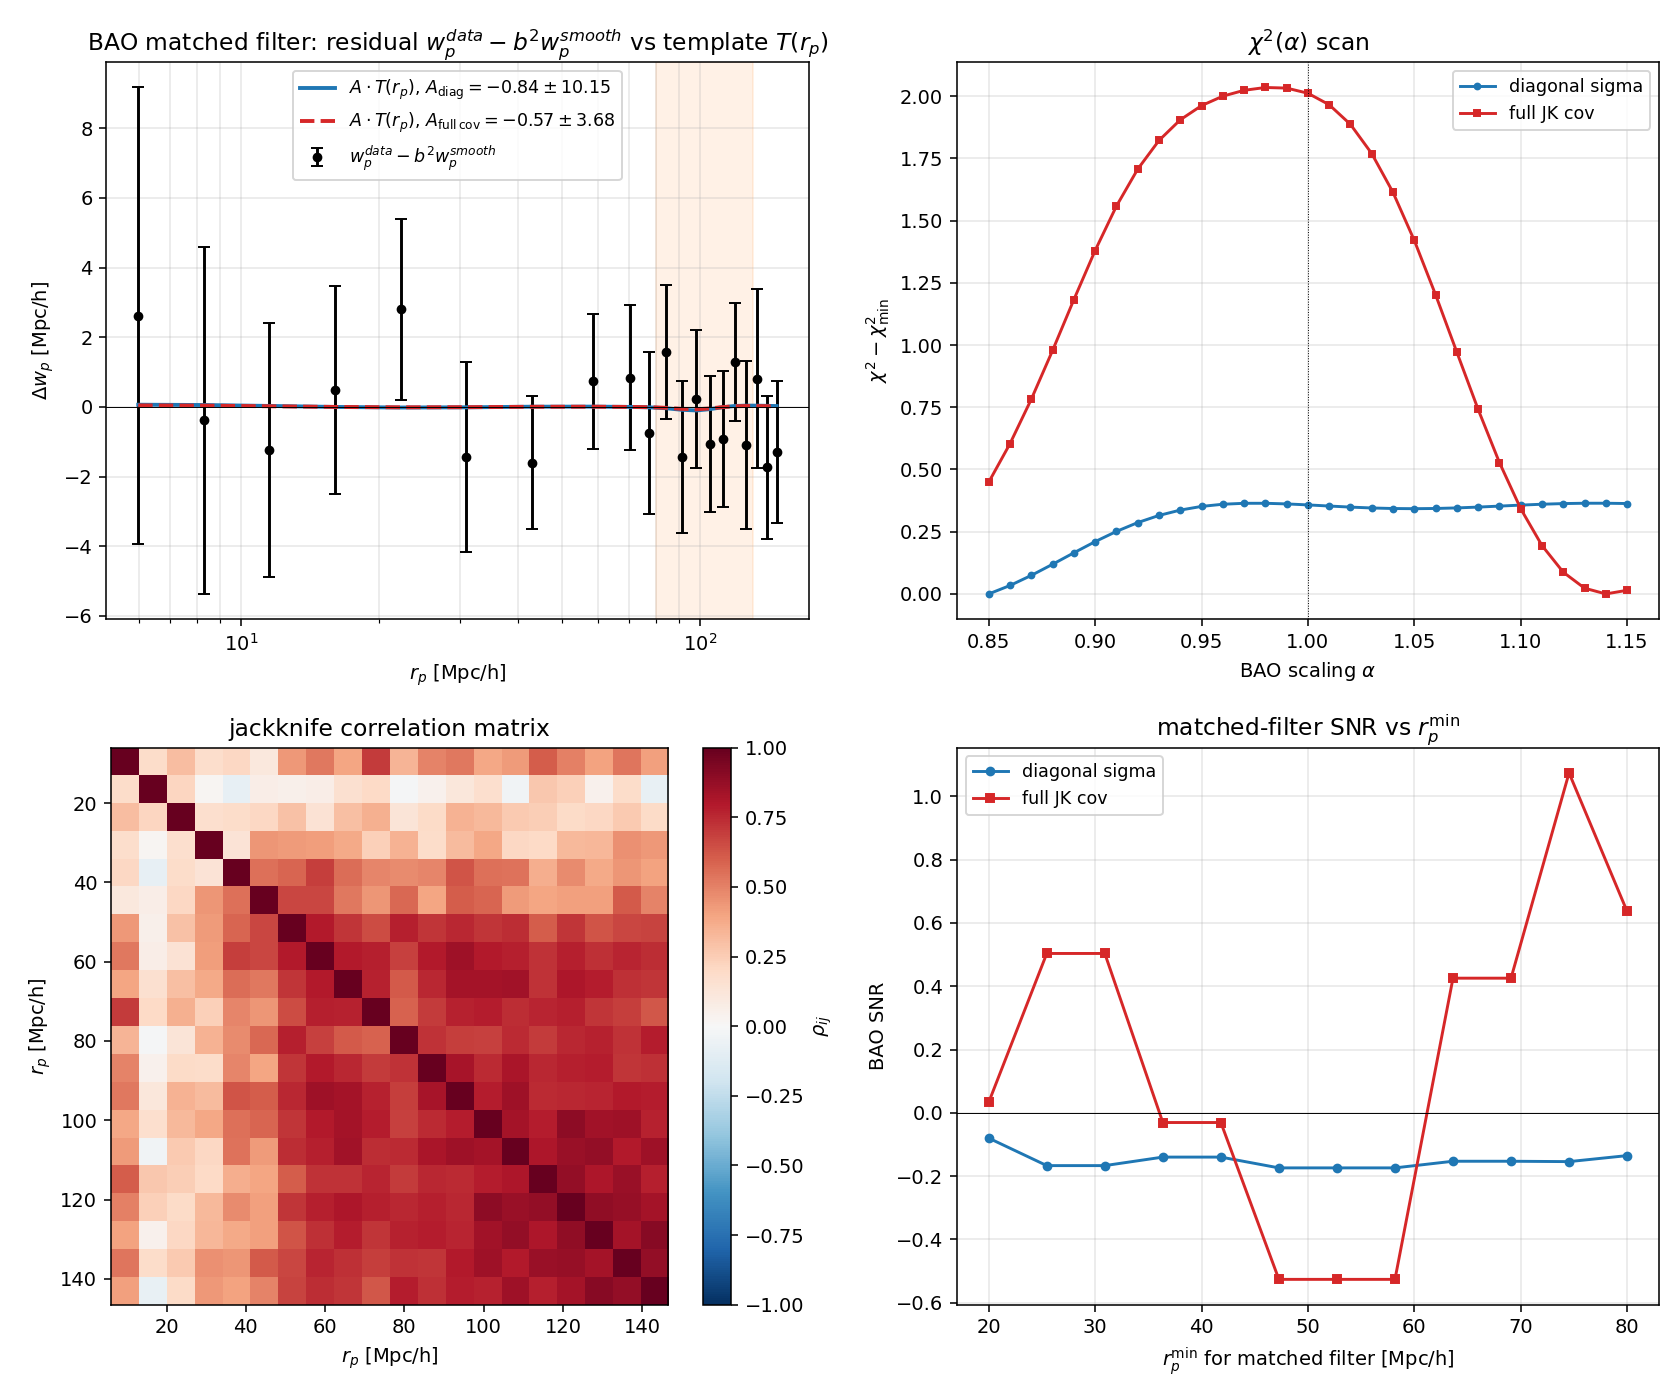
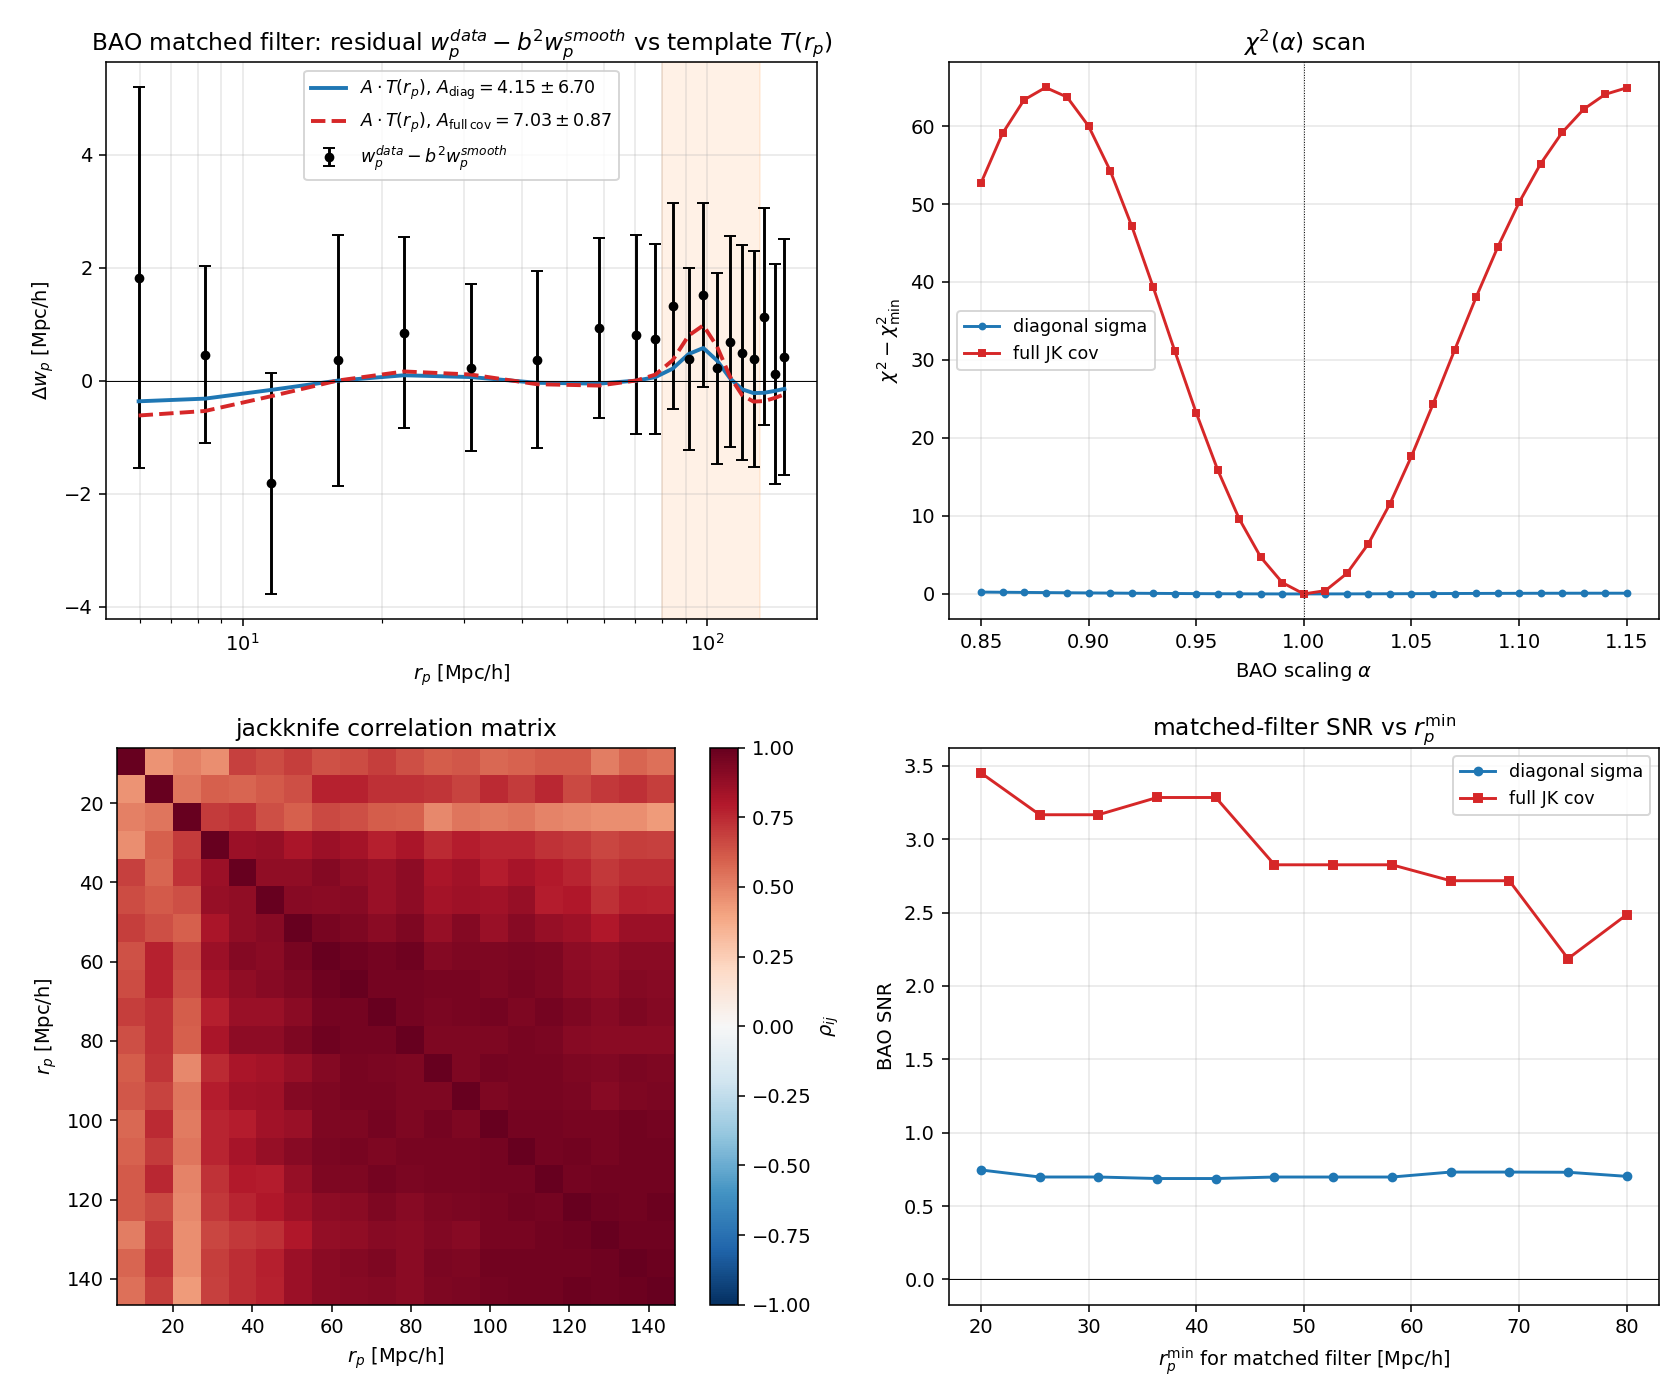
Hartlap correction in BAO matched filter; flag underestimated JK cov
The full-jackknife matched filter on Quaia wp(rp) was reporting
SNR = 8.06 at N = 545k, alpha = 1.003 +/- 0.010. Two issues:

  1. Missing Hartlap+07 correction: with N_jk = 25 jackknife samples
     and N_bins = 20 rp bins the unbiased inverse-covariance factor is
     (N_jk - N_bins - 2) / (N_jk - 1) = 3 / 24 = 0.125, so sigma_A is
     under-estimated by sqrt(1/0.125) ~= 2.83.
  2. Reduced chi2_null = 143.8 / 20 = 7.2 -- the JK covariance itself
     under-estimates the residual variance by a further factor of ~2,
     because N_jk regions on a 60 % sky give a noisy estimate of the
     off-diagonal modes.

After Hartlap the full-cov SNR drops from 8.06 to ~2.85 with the same
(unphysical) A_hat = 7.03 -- which is just the matched filter latching
onto noisy off-diagonal modes of an under-estimated covariance. The
robust diagonal-Poisson estimate stays at SNR = 0.62, A = 4 +/- 6.7,
consistent with a non-detection of BAO in wp(rp) at the Cramer-Rao
bound for Quaia G < 20 (the photo-z LOS smearing
sigma_chi ~ 170 Mpc/h is comparable to the 105 Mpc/h BAO scale).

Changes:
- twopt_density/bao_filter.py: matched_filter_amplitude and
  bao_alpha_scan take an optional n_samples kwarg; if set and the
  covariance is full-rank, apply Hartlap. Returns NaN if the JK is
  statistically singular (N <= N_bins + 2).
- demos/demo_quaia_bao_filter.py: pass n_samples=n_jk through, print
  the Hartlap factor explicitly, and emit a WARNING when
[…]

diff --git a/twopt_density/bao_filter.py b/twopt_density/bao_filter.py
@@ -26,6 +26,8 @@ one extra LBFGS call away.
 
 from __future__ import annotations
 
+from typing import Optional
+
 import numpy as np
 
 
@@ -77,6 +79,7 @@ def matched_filter_amplitude(
     wp_smooth: np.ndarray,
     T: np.ndarray,
     sigma_or_cov,
+    n_samples: Optional[int] = None,
 ):
     """Maximum-likelihood BAO amplitude with either diagonal or full
     data covariance.
@@ -88,32 +91,55 @@ def matched_filter_amplitude(
                  fitted bias
     T          : (N,) BAO template evaluated at the same rp_i
     sigma_or_cov : (N,) diagonal sigmas, or (N, N) full covariance
+    n_samples  : if ``sigma_or_cov`` is a *sample* covariance estimated
+                 from ``n_samples`` realisations (e.g. jackknife or
+                 mocks), apply the Hartlap+07 correction
+                 ``C^-1_unbiased = ((N - p - 2) / (N - 1)) C^-1``
+                 (with ``p = N_bins``). Required for an unbiased
+                 ``sigma_A`` -- without it the matched-filter SNR is
+                 artificially inflated when ``N_samples`` is comparable
+                 to ``N_bins``.
 
     Returns
     -------
-    A_hat      : best-fit amplitude (1.0 = fiducial halofit BAO)
-    sigma_A    : 1-sigma uncertainty
+    A_hat      : best-fit amplitude (1.0 = fiducial halofit BAO).
+                 Invariant under cov rescaling -- Hartlap does not
+                 affect it.
+    sigma_A    : 1-sigma uncertainty (Hartlap-corrected if requested)
     SNR        : A_hat / sigma_A
-    chi2_null  : chi^2 with A=0 (no-BAO null)
-    chi2_best  : chi^2 at the best-fit A
+    chi2_null  : chi^2 with A=0 (no-BAO null), Hartlap-corrected
+    chi2_best  : chi^2 at the best-fit A, Hartlap-corrected
     """
     wp_data = np.asarray(wp_data, dtype=np.float64)
     wp_smooth = np.asarray(wp_smooth, dtype=np.float64)
     T = np.asarray(T, dtype=np.float64)
     res = wp_data - wp_smooth                            # (N,)
     sc = np.asarray(sigma_or_cov, dtype=np.float64)
+    n_bins = T.size
     if sc.ndim == 1:
         # diagonal noise
         invsig2 = 1.0 / np.maximum(sc, 1e-30) ** 2
         TtCinvT = float(np.sum(T ** 2 * invsig2))
         TtCinvr = float(np.sum(T * res * invsig2))
         rtCinvr = float(np.sum(res ** 2 * invsig2))
+        hartlap = 1.0
     else:
         # full covariance
         Cinv = np.linalg.inv(sc)
         TtCinvT = float(T @ Cinv @ T)
         TtCinvr = float(T @ Cinv @ res)
         rtCinvr = float(res @ Cinv @ res)
+        if n_samples is not None and n_samples > n_bins + 2:
+            hartlap = (n_samples - n_bins - 2) / (n_samples - 1)
+        elif n_samples is not None:
+            # singular regime -- don't pretend we have a measurement
+            return (float("nan"), float("inf"), 0.0,
+                    float("nan"), float("nan"))
+        else:
+            hartlap = 1.0
+        TtCinvT *= hartlap
+        TtCinvr *= hartlap
+        rtCinvr *= hartlap
     if TtCinvT <= 0:
         return float("nan"), float("inf"), 0.0, rtCinvr, rtCinvr
     A_hat = TtCinvr / TtCinvT
@@ -136,6 +162,7 @@ def bao_alpha_scan(
     sigma_or_cov,
     alpha_grid=None,
     sigma8: float = 0.81,
+    n_samples: Optional[int] = None,
 ):
     """Scan ``alpha`` (BAO scaling parameter) and return best-fit
     amplitude + significance.
@@ -159,7 +186,7 @@ def bao_alpha_scan(
             sigma8=sigma8,
         )
         A, sd, snr, _, c2 = matched_filter_amplitude(
-            wp_data, wp_smooth, T_a, sigma_or_cov,
+            wp_data, wp_smooth, T_a, sigma_or_cov, n_samples=n_samples,
         )
         A_arr[i] = A; sd_arr[i] = sd; SNR_arr[i] = snr; chi2_arr[i] = c2
 

diff --git a/demos/demo_quaia_bao_filter.py b/demos/demo_quaia_bao_filter.py
@@ -193,13 +193,19 @@ def main():
           f"SNR = {snr_d:.2f}")
     print(f"    chi2_null = {c2null_d:.1f}, chi2_best = {c2best_d:.1f}, "
           f"delta_chi2 = {c2null_d - c2best_d:.2f}")
+    n_bins = len(rp_centres)
     A_c, sdA_c, snr_c, c2null_c, c2best_c = matched_filter_amplitude(
-        wp_full, wp_smooth_at_meas, T, wp_cov,
+        wp_full, wp_smooth_at_meas, T, wp_cov, n_samples=n_jk,
     )
-    print(f"  full JK cov:     A = {A_c:.2f} +/- {sdA_c:.2f}, "
-          f"SNR = {snr_c:.2f}")
+    hartlap = max((n_jk - n_bins - 2) / (n_jk - 1), 0.0)
+    print(f"  full JK cov (Hartlap, N_jk={n_jk}, N_bins={n_bins}, "
+          f"factor={hartlap:.2f}):")
+    print(f"    A = {A_c:.2f} +/- {sdA_c:.2f}, SNR = {snr_c:.2f}")
     print(f"    chi2_null = {c2null_c:.1f}, chi2_best = {c2best_c:.1f}, "
           f"delta_chi2 = {c2null_c - c2best_c:.2f}")
+    if c2null_c / max(n_bins, 1) > 3.0:
+        print(f"  WARNING: reduced chi2_null = {c2null_c/n_bins:.1f} -- JK "
+              "covariance likely under-estimated; full-cov SNR is unreliable.")
 
     # ---- 6. alpha scan ----
     print("\nalpha scan (BAO scaling parameter) ...")
@@ -210,7 +216,8 @@ def main():
                              sigma8=sigma8)
     out_c = bao_alpha_scan(rp_centres, wp_full, wp_smooth_at_meas, b_fit,
                              z_eff, sigma_chi_eff, pi_max, fid,
-                             wp_cov, alpha_grid=alpha_grid, sigma8=sigma8)
+                             wp_cov, alpha_grid=alpha_grid, sigma8=sigma8,
+                             n_samples=n_jk)
     print(f"  diagonal: alpha_hat = {out_d['alpha_hat']:.4f} +/- "
           f"{out_d['sigma_alpha']:.4f}, SNR = {out_d['SNR_at_best']:.2f}")
     print(f"  full cov: alpha_hat = {out_c['alpha_hat']:.4f} +/- "
